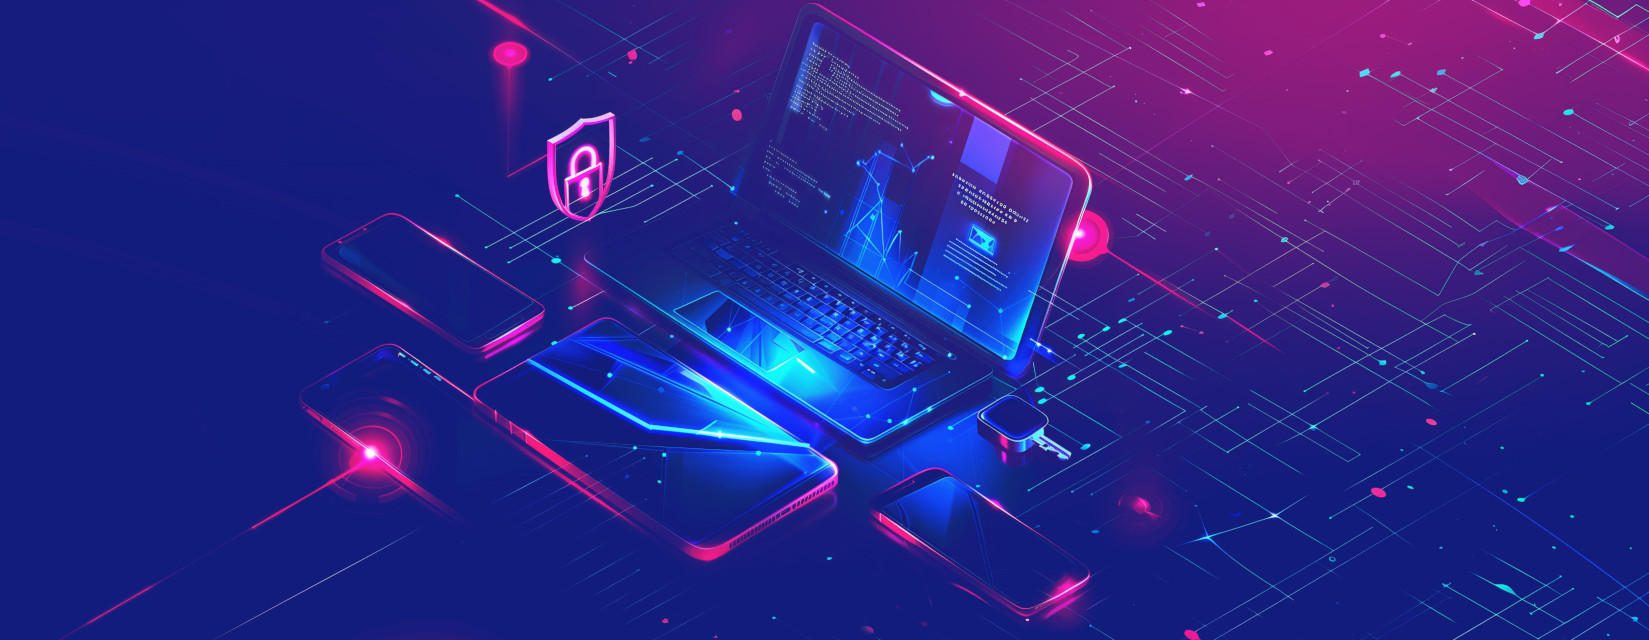
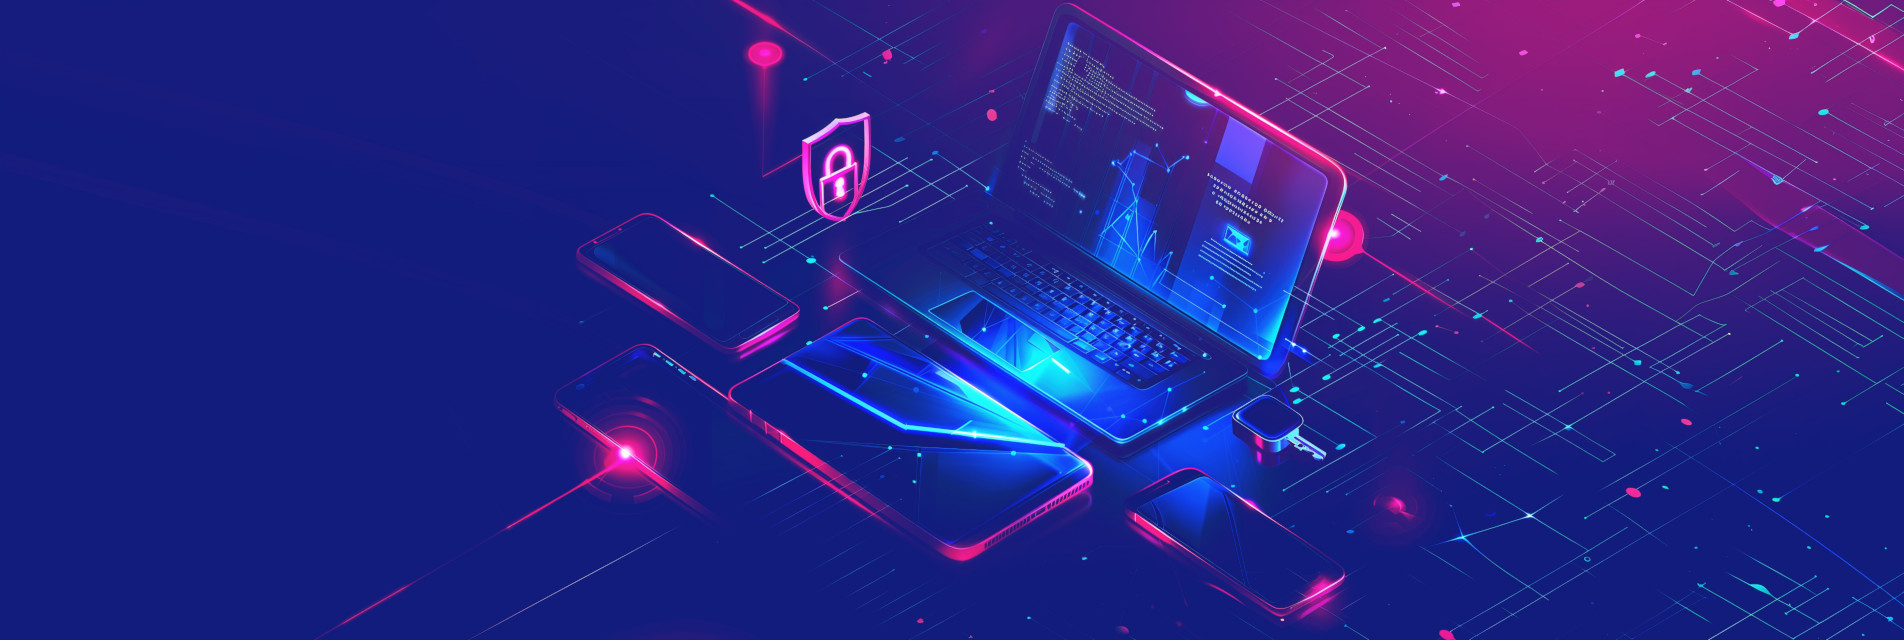
css

diff --git a/_includes/assets/css/inline.css b/_includes/assets/css/inline.css
@@ -396,6 +396,9 @@ button {
 	#main-h1 {font-size: 3em;}
 	#main-h2 {font-size: 1.6em;}
 	.title-block h2 {font-size: 2em;}
+	.page-wrapper {
+		background-position: 0%;
+	}
 }
 @media screen and (max-width: 600px)
 { 
@@ -409,6 +412,9 @@ button {
 		margin-bottom: 20px;
 	  }
 	  .section0 .text-block {padding: .5em 0 0.5em 0;}
+	  .page-wrapper {
+		background-position: 100%;
+	}
 }
 @media screen and (min-width:768px) {
 	:root {

diff --git a/pages/home.md b/pages/home.md
@@ -16,7 +16,7 @@ eleventyNavigation:
       <div><div class="request">Request a Quote</div></div>
     </div>
     <div class="flex-image">
-      <div class="center"><img src="/static/img/cybers.png" width="800px"></div>
+      <div class="center"></div>
     </div>
   </div>
 </div>
